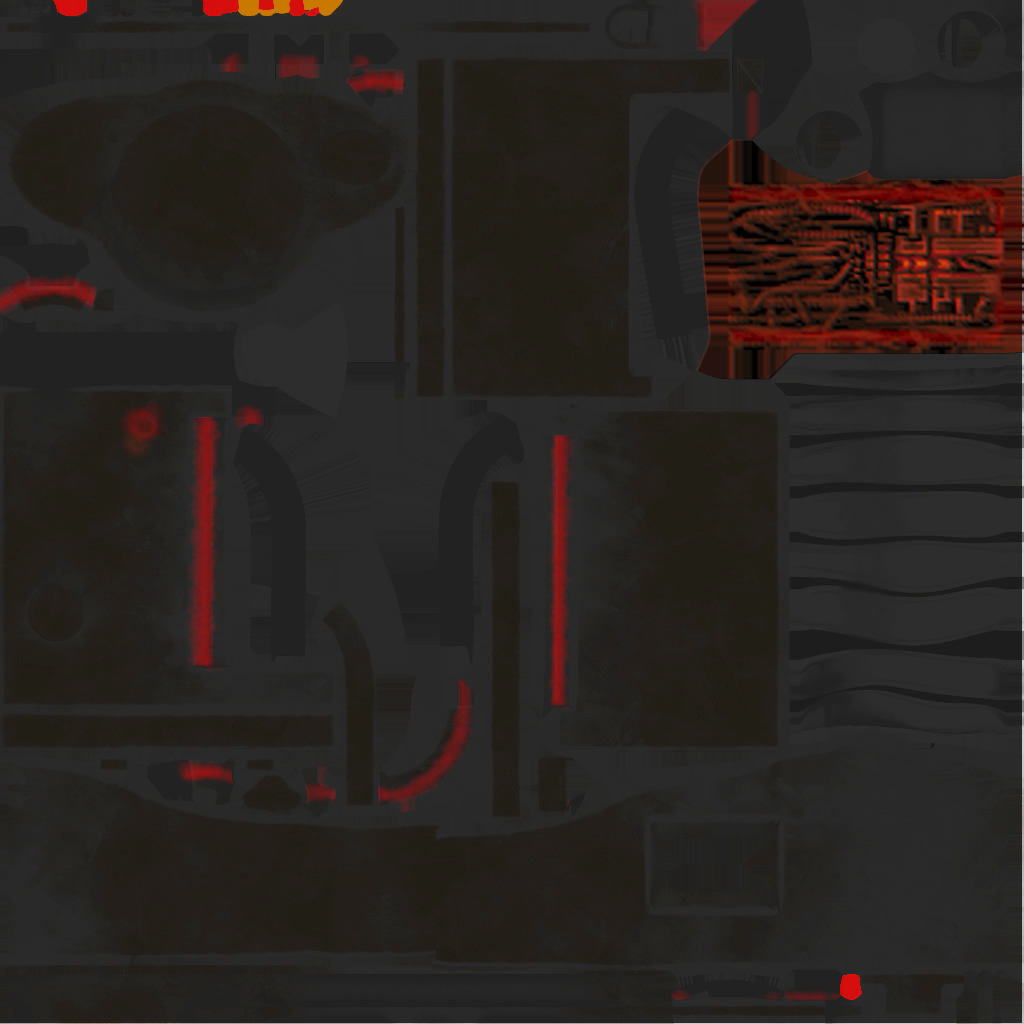
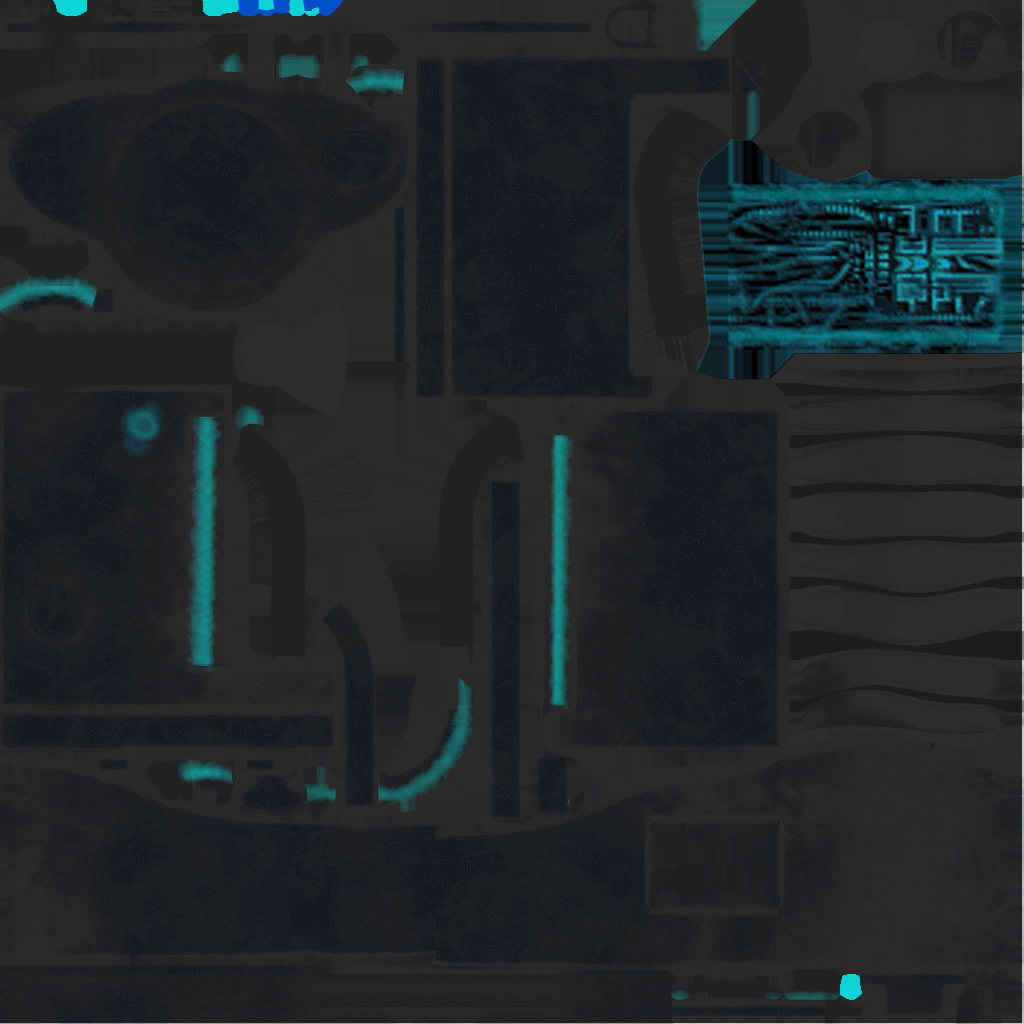
remodel: chaingun/nailgun fixes and railgun reskin

diff --git a/src/engine/renderextras.cpp b/src/engine/renderextras.cpp
@@ -1,5 +1,4 @@
 #include "../include/cube.h"
-#include "../include/protos.h"
 
 extern bool intermission;
 extern int intermissiontimer;
@@ -642,16 +641,27 @@ void gl_drawhud(int w, int h, int curfps, int nquads, int curvert,
       draw_textf("%d", 315, 1660, 2, d->armour);
     }
 
-    int g = d->gunselect;
-    int r = 64;
-    if (g > 4) {
-      g -= 5;
-      r = 192;
-    } else if (g > 2) {
-      g -= 3;
-      r = 128;
-    };
-    drawicon((float)(g * 64), (float)r, VIRTW - 250, 1620, 64);
+    if (d->gunselect == GUN_NAILGUN) {
+      glBindTexture(GL_TEXTURE_2D, 11);
+      glBegin(GL_QUADS);
+      glTexCoord2f(0, 0); glVertex2i(VIRTW - 250, 1620);
+      glTexCoord2f(1, 0); glVertex2i(VIRTW - 250 + 64, 1620);
+      glTexCoord2f(1, 1); glVertex2i(VIRTW - 250 + 64, 1620 + 64);
+      glTexCoord2f(0, 1); glVertex2i(VIRTW - 250, 1620 + 64);
+      glEnd();
+      xtraverts += 4;
+    } else {
+      int g = d->gunselect;
+      int r = 64;
+      if (g > 4) {
+        g -= 5;
+        r = 192;
+      } else if (g > 2) {
+        g -= 3;
+        r = 128;
+      };
+      drawicon((float)(g * 64), (float)r, VIRTW - 250, 1620, 64);
+    }
     draw_textf("%d", VIRTW - 170, 1660, 2, d->ammo[d->gunselect]);
 
     glDisable(GL_TEXTURE_2D);

diff --git a/src/include/protos.h b/src/include/protos.h
@@ -110,7 +110,7 @@ extern void fixplayer1range();
 
 // clientextras
 extern void renderclients();
-extern void renderclient(dynent *d, bool team, char *mdlname, bool hellpig, float scale);
+extern void renderclient(dynent *d, bool team, const char *mdlname, bool hellpig, float scale);
 extern bool scoreson;
 void showscores(bool on);
 extern void renderscores();
@@ -218,7 +218,7 @@ extern void cleansound();
 
 // rendermd2
 extern void preloadhudmodels();
-extern void rendermodel(char *mdl, int frame, int range, int tex, float rad, float x, float y, float z, float yaw, float pitch, bool teammate, float scale, float speed, int snap = 0, int basetime = 0, float glow = 0);
+extern void rendermodel(const char *mdl, int frame, int range, int tex, float rad, float x, float y, float z, float yaw, float pitch, bool teammate, float scale, float speed, int snap = 0, int basetime = 0, float glow = 0);
 extern mapmodelinfo &getmminfo(int i);
 extern int nummapmodels();
 

diff --git a/src/engine/rendermd2.cpp b/src/engine/rendermd2.cpp
@@ -263,10 +263,10 @@ void delayedload(md2 *m) {
 
 int modelnum = 0;
 
-md2 *loadmodel(char *name) {
+md2 *loadmodel(const char *name) {
   if (!mdllookup)
     mdllookup = new hashtable<md2 *>;
-  md2 **mm = mdllookup->access(name);
+  md2 **mm = mdllookup->access((char *)name);
   if (mm)
     return *mm;
   md2 *m = new md2();
@@ -307,7 +307,7 @@ void preloadhudmodels() {
     }
 }
 
-void rendermodel(char *mdl, int frame, int range, int tex, float rad, float x,
+void rendermodel(const char *mdl, int frame, int range, int tex, float rad, float x,
                  float y, float z, float yaw, float pitch, bool teammate,
                  float scale, float speed, int snap, int basetime,
                  float glow) {

diff --git a/src/client/clientextras.cpp b/src/client/clientextras.cpp
@@ -7,7 +7,7 @@ int frame[] = {178, 184, 190, 137, 183, 189, 197, 164, 46, 51,
                54,  32,  0,   0,   40,  1,   162, 162, 67, 168};
 int range[] = {6, 6, 8, 28, 1, 1, 1, 1, 8, 19, 4, 18, 40, 1, 6, 15, 1, 1, 1, 1};
 
-void renderclient(dynent *d, bool team, char *mdlname, bool hellpig,
+void renderclient(dynent *d, bool team, const char *mdlname, bool hellpig,
                   float scale) {
   if (d->state == CS_SPECTATOR)
     return;

diff --git a/src/game/weapon.cpp b/src/game/weapon.cpp
@@ -21,7 +21,7 @@ guninfo guns[NUMGUNS] = {
     {S_CG, 100, 30, 0, 0, 7, "chaingun"},
     {S_RLFIRE, 800, 120, 80, 0, 10, "rocketlauncher"},
     {S_RIFLE, 1500, 100, 0, 0, 30, "rifle"},
-    {S_NAILGUN, 150, 25, 0, 0, 5, "nailgun"},
+    {S_NAILGUN, 100, 25, 0, 0, 5, "nailgun"},
     {S_FLAUNCH, 200, 20, 50, 4, 1, "fireball"},
     {S_ICEBALL, 200, 40, 30, 6, 1, "iceball"},
     {S_SLIMEBALL, 200, 30, 160, 7, 1, "slimeball"},

diff --git a/src/main.cpp b/src/main.cpp
@@ -292,6 +292,7 @@ int main(int argc, char **argv) {
     fatal("Could not find core textures (hint: run HATE from the parent of the "
           "bin directory)");
   installtex(10, path(newstring("data/boost.png")), xs, ys);
+  installtex(11, path(newstring("data/nailgun.png")), xs, ys);
 
   log("preload weapons");
   preloadhudmodels();
